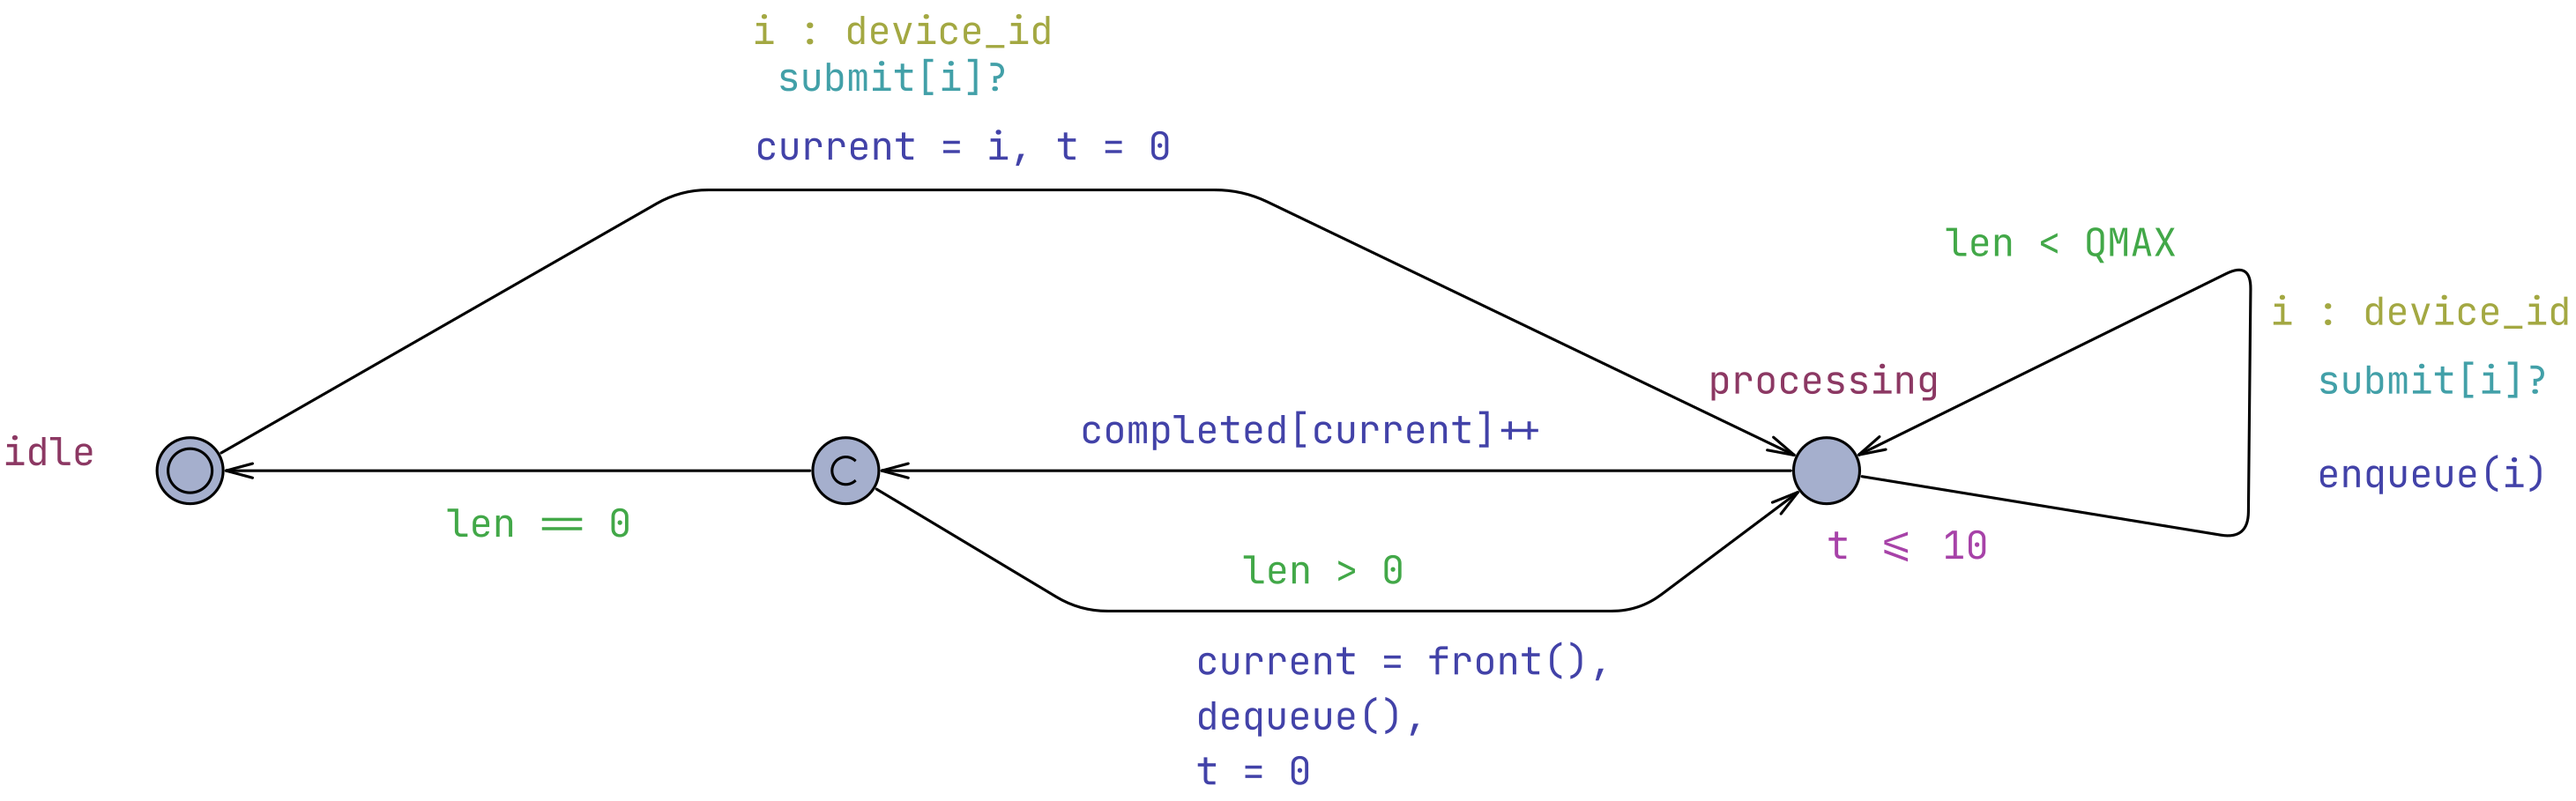
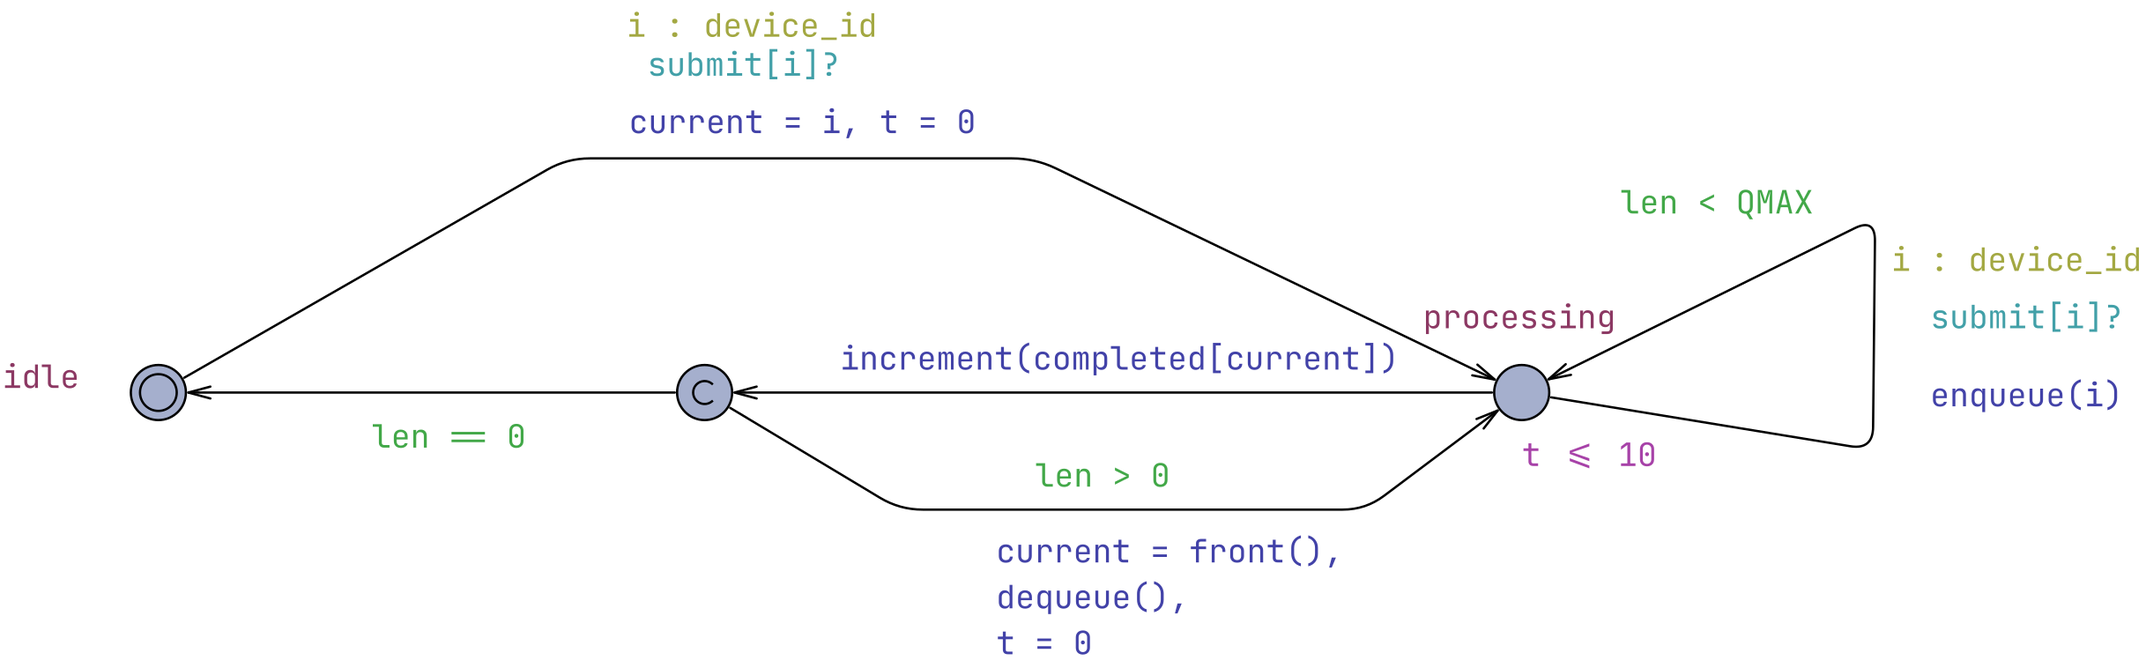
Complete model with dropping queue

Changed region(s): [[0.3745, 0.5158, 0.6554, 0.5765], [0.3433, 0.5765, 0.3745, 0.6069], [0.0936, 0.5765, 0.1248, 0.6069]]

diff --git a/IoTSystemV3.md b/IoTSystemV3.md
@@ -29,19 +29,73 @@ int completed[N];
 Μάλιστα για να συγκρίνουμε αργότερα τις τιμές θα ορίσουμε μετρητές και για τις εργασίες που δημιουργούνται και στέλνονται στο cloud. Πάλι ανά συσκευή και άρα σε πίνακες μεγέθους Ν.
 
 ``` uppaal
-int completed[N]; // number of tasks completed (processed by the cloud) for each device
+const int CMAX = 100;
 
-int generated[N]; // number of tasks generated by each device
-int submitted[N]; // number of tasks generated and submitted to the cloud, by each device
+int[0, CMAX] completed[N]; // number of tasks completed (processed by the cloud) for each device
+
+int[0, CMAX] generated[N]; // number of tasks generated by each device
+int[0, CMAX] submitted[N]; // number of tasks generated and submitted to the cloud, by each device
+
+void increment(int[0, CMAX] &counter)
+{
+    if (counter < CMAX)
+        counter++;
+}
+```
+
+Για την παρακολούθηση της συμπεριφοράς του συστήματος χρησιμοποιούμε τρεις μετρητές για κάθε συσκευή. Οι μετρητές αυτοί έχουν μέγιστη τιμή CMAX. Μόλις ένας μετρητής φτάσει αυτή την τιμή, δεν αυξάνεται περαιτέρω. Με αυτόν τον τρόπο αποφεύγεται η υπερχείλιση των ακεραίων (integer overflow) κατά την εκτέλεση μεγάλων προσομοιώσεων. Γι' αυτό έχουμε ορίσει και καλούμε μια συνάρτηση increment που ελέγχει το CMAX αντί να αυξάνουμε απευθείας τις τιμές των μετρητών απευεθίας.
+
+Στο αυτόματο αυξάνουμε τους μετρητές generated και submitted όταν δημιουργείται και όταν στέλνεται μια εργασία στο cloud αντίστοιχα.
+
+![device automaton](images/devicev31.png)
+
+*Figure 3. Device Automaton updated.*
+
+## Queries
+
+Θα εκτελέσουμε κάποια queries για να επιβεβαιώσουμε την αναμενόμενη συμπεριφορά του συστήματος.
+
+```uppaal
+E<> completed[0] > 0
+```
+
+Αρχικά ελέγχουμε ότι μπορεί να ολοκληρωθεί τουλάχιστον μια εργασία της συσκευής 0. Κάτι άλλο που μπορούμε να ελέγξουμε είναι ότι υπάρχει εκτέλεση όπου ολοκληρώνεται τουλάχιστον μια εργασία για κάθε συσκευή. Αυτό το εκφράζουμε ως εξής:
+
+```uppaal
+E<> forall(i : device_id) (completed[i] > 0)
+```
+
+Στη συνέχεια, ελέγχουμε ότι μπορεί να υπάρξουν, σε κάποιο σημείο, εργασίες που έχουν υποβληθεί στο cloud αλλά δεν έχουν ολοκληρωθεί:
+
+```uppaal
+E<> submitted[0] > completed[0]
 ```
 
 ### State-space explosion
 
-Σε αυτό το σημείο μπορούμε να αρχίσουμε να εκτελούμε κάποια queries για να ελέγξουμε τη συμπεριφορά του συστήματος. Σε όλα τα προηγούμενα μοντέλα είχαμε εκτελέσει το query `A[] not deadlock` για να επιβεβαιώσουμε ότι το σύστημα δεν οδηγείται ποτέ σε αδιέξοδο (deadlock). Στο τρέχον μοντέλο, όμως, η εκτέλεση του ίδιου query γίνεται αισθητά πιο απαιτητική. Αφού πλέον οι συσκευές μπορούν να παράγουν νέες εργασίες ανεξάρτητα από την ολοκλήρωση των προηγούμενων, ο αριθμός των πιθανών συνολικών καταστάσεων του συστήματος αυξάνεται σημαντικά, ακόμη και για μόλις N = 3 συσκευές.
+Έπειτα, θα θέλαμε να επαληθεύσουμε ότι ο αριθμός των ολοκληρωμένων εργασιών μιας συσκευής δεν ξεπερνά ποτέ τον αριθμό των εργασιών που έχουν υποβληθεί. Η φυσική διατύπωση είναι:
 
-Το φαινόμενο αυτό είναι γνωστό ως έκρηξη του χώρου καταστάσεων (state-space explosion). Όσο αυξάνεται ο αριθμός των ταυτόχρονα ενεργών συνιστωσών και των δυνατών αλληλεπιδράσεών τους, ο αριθμός των καταστάσεων που πρέπει να εξεταστούν από τον verifier του UPPAAL αυξάνεται ραγδαία. Έτσι, η αλλαγή των συσκευών σε non-blocking συμπεριφορά, οδηγεί σε σημαντική αύξηση του χρόνου επαλήθευσης.
+```uppaal
+A[] completed[0] <= submitted[0]
+```
 
-Επιπλέον, το συγκεκριμένο query είναι ιδιαίτερα απαιτητικό, επειδή πρόκειται για καθολική ιδιότητα (`A[]`). Για να αποδείξει ότι το σύστημα δεν μπορεί να οδηγηθεί σε deadlock, το UPPAAL πρέπει να εξερευνήσει ολόκληρο τον προσβάσιμο χώρο καταστάσεων. Αντίθετα, υπαρξιακά queries, όπως το `E<> Cloud.len == Cloud.QMAX`, μπορούν να τερματίσουν μόλις εντοπιστεί μία εκτέλεση που ικανοποιεί την ιδιότητα, γεγονός που τα καθιστά συνήθως πολύ ταχύτερα.
+Ωστόσο, στο συγκεκριμένο μοντέλο η επαλήθευση δεν ολοκληρώνεται σε πρακτικό χρόνο, ακόμη και για μικρές τιμές των N και QMAX.
+
+![state-space explosion](images/statespace_explosion.png)
+
+*Figure 4. Processing the query.*
+
+Αυτό συμβαίνει επειδή, οι μετρητές αποτελούν μέρος της κατάστασης του συστήματος. Κάθε νέος συνδυασμός τιμών των generated, submitted και completed, για κάθε μια από τις Ν συσκευές, δημιουργεί διαφορετική κατάσταση. Τα γενικευμένα χρονισμένα αυτόματα του UPPAAL έχουν έναν χώρο καταστάσεων που δεν περιορίζεται μόνο από τις καταστάσεις και το ρολόι αλλά και από όλες τις πιθανές τιμές των μεταβλητών και δομών δεδομένων. Εδώ, για Ν = 3, έχουμε 9 integer μεταβλητές μετρητών (*completed[0], completed[1], completed[2], generated[0], generated[1], generated[2], submitted[0], submitted[1], submitted[2]*) και η κάθε μια από αυτές παίρνει τιμές από 0 έως CMAX.
+
+Παράλληλα, οι συσκευές πλέον λειτουργούν ανεξάρτητα από την ολοκλήρωση των προηγούμενων εργασιών τους. Έτσι μπορούν να παράγουν νέες εργασίες ταυτόχρονα, αυξάνοντας σημαντικά τον αριθμό των δυνατών αλληλουχιών εκτέλεσης του συστήματος.
+
+Το φαινόμενο αυτό είναι γνωστό ως έκρηξη του χώρου καταστάσεων (state-space explosion) και αποτελεί έναν από τους σημαντικότερους περιορισμούς της εξαντλητικής επαλήθευσης (exhaustive verification). Καθώς αυξάνεται η πολυπλοκότητα του μοντέλου, ο αριθμός των καταστάσεων που πρέπει να εξεταστούν μπορεί να αυξηθεί εκθετικά, με αποτέλεσμα ακόμη και απλές ιδιότητες να μην μπορούν να επαληθευτούν σε πρακτικό χρόνο.
+
+Το συγκεκριμένο query είναι ιδιαίτερα απαιτητικό, επειδή πρόκειται για καθολική ιδιότητα (`A[]`). Για να αποδείξει ότι το σύστημα δεν μπορεί να οδηγηθεί σε deadlock, το UPPAAL πρέπει να εξερευνήσει ολόκληρο τον προσβάσιμο χώρο καταστάσεων. Αντίθετα, υπαρξιακά queries, όπως το `E<> Cloud.len == Cloud.QMAX`, μπορούν να τερματίσουν μόλις εντοπιστεί μία εκτέλεση που ικανοποιεί την ιδιότητα, γεγονός που τα καθιστά συνήθως πολύ ταχύτερα.
+
+#### Ανάγκη για Statistical Model Checking (SMC)
+
+Μέχρι τώρα χρησιμοποιήσαμε τις δυνατότητες του κλασικού UPPAAL για την εξαντλητική επαλήθευση (exhaustive verification) ιδιοτήτων του μοντέλου. Όπως είδαμε όμως, όσο αυξάνεται η πολυπλοκότητα του συστήματος, η πλήρης εξερεύνηση του χώρου καταστάσεων γίνεται ολοένα και πιο απαιτητική. Στο επόμενο κεφάλαιο θα δούμε πώς το Statistical Model Checking (SMC) προσφέρει μια εναλλακτική προσέγγιση για την ανάλυση τέτοιων συστημάτων μέσω στατιστικών προσομοιώσεων.
 
 ### Όταν γεμίζει η ουρά
 
@@ -51,6 +105,43 @@ int submitted[N]; // number of tasks generated and submitted to the cloud, by ea
 2. η εργασία απορρίπτεται (dropped)
 
 Θα ακολουθήσουμε το 2, αφού έχουμε αποδεχτεί την πιο ρεαλιστική συμπεριφορά των συσκευών IoT να στέλνουν τις εργασίες/μετρήσεις τους ανεξάρτητα από συγχρονισμό με το cloud.
+
+Τώρα η βασική αλλαγή είναι να επιτρέψουμε στο Cloud να συγχρονίζεται με τη συσκευή και όταν η ουρά είναι πλήρης, αλλά χωρίς να εκτελεί το enqueue.
+
+Ορίζουμε άλλη μια βοηθητική συνάρτηση, την `accept_or_drop`:
+
+```uppaal
+void accept_or_drop(device_id i)
+{
+    if (len < QMAX)
+    {
+        enqueue(i);
+        increment(submitted[i]);
+    }
+}
+```
+
+Καλούμε την `accept_or_drop` στο self-transition της **processing**. Χρειάζεται επιπλέον να αφαιρέσουμε το guard `len < QMAX`. Έτσι τώρα όταν `len == QMAX`: ο συγχρονισμός `submit[i]! / submit[i]?` εξακολουθεί να γίνεται, η συσκευή επιστρέφει στο *idle*, η εργασία δεν μπαίνει στην ουρά και το `submitted[i]` δεν αυξάνεται. Τέλος, έχουμε μεταφέρει την άυξηση των μετρητών submitted στο αυτόματο του cloud, αφού πλέον δεν γίνονται όλες οι εργασίες δεκτές.
+
+Έτσι η συσκευή δεν μπλοκάρει και η διαφορά `generated[i] - submitted[i]` μετρά τις εργασίες που δημιουργήθηκαν αλλά απορρίφθηκαν.
+
+![device automaton](images/devicev32.png)
+
+*Figure 5. Final device automaton.*
+
+![cloud automaton](images/cloudv31.png)
+
+*Figure 6. Final cloud automaton.*
+
+#### Query
+
+Ένα query που δείχνει ότι κάποιες εργασίες απορρίπτονται από την ουρά είναι το παρακάτω.
+
+```query
+E<> Device(0).idle && generated[0] > submitted[0]
+```
+
+H συσκευή έχει ολοκληρώσει την προσπάθεια υποβολής και έχει επιστρέψει στο idle. Αν η διαφορά παραμένει, τότε τουλάχιστον μία εργασία δημιουργήθηκε αλλά δεν έγινε δεκτή από το Cloud.
 
 ## Version 3 xml
 
